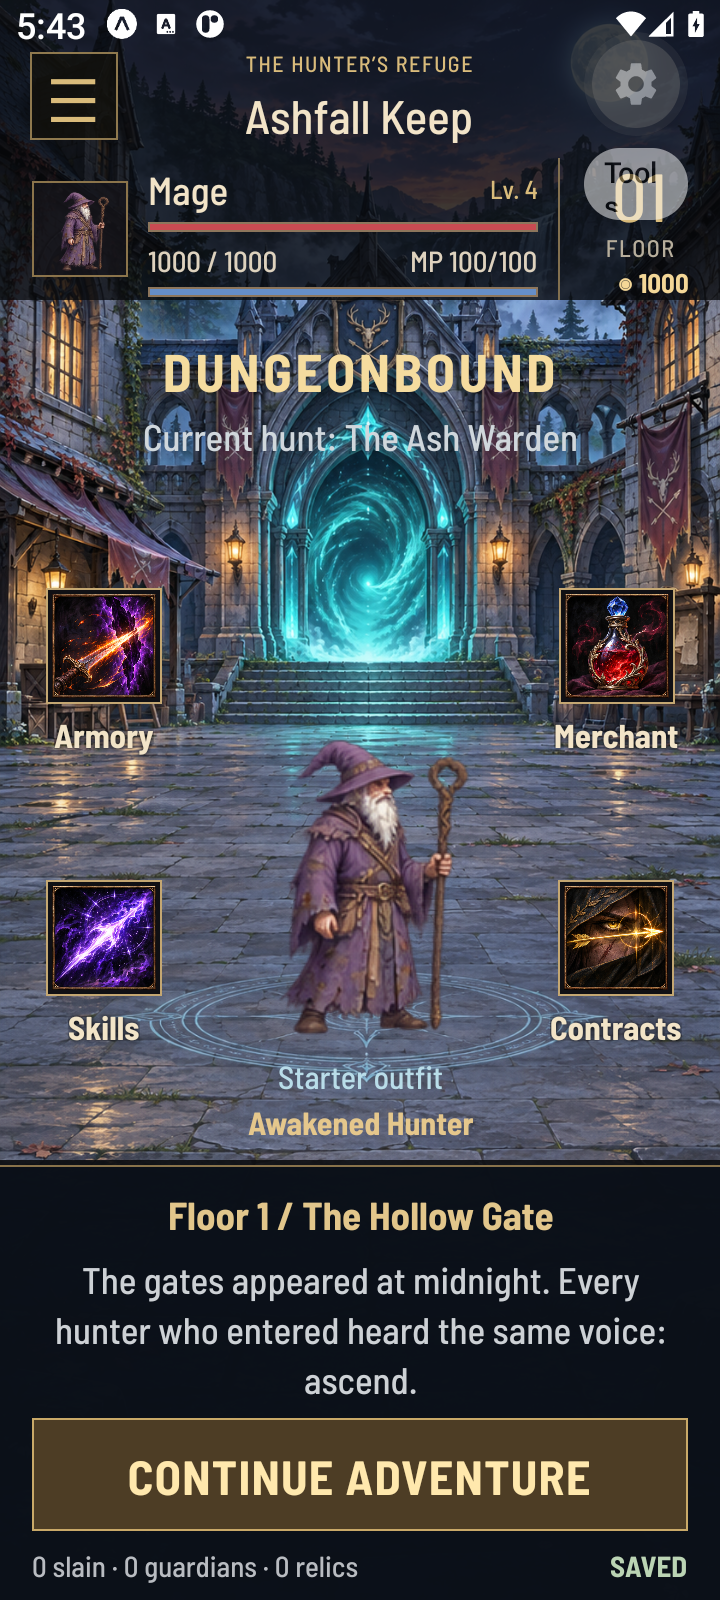
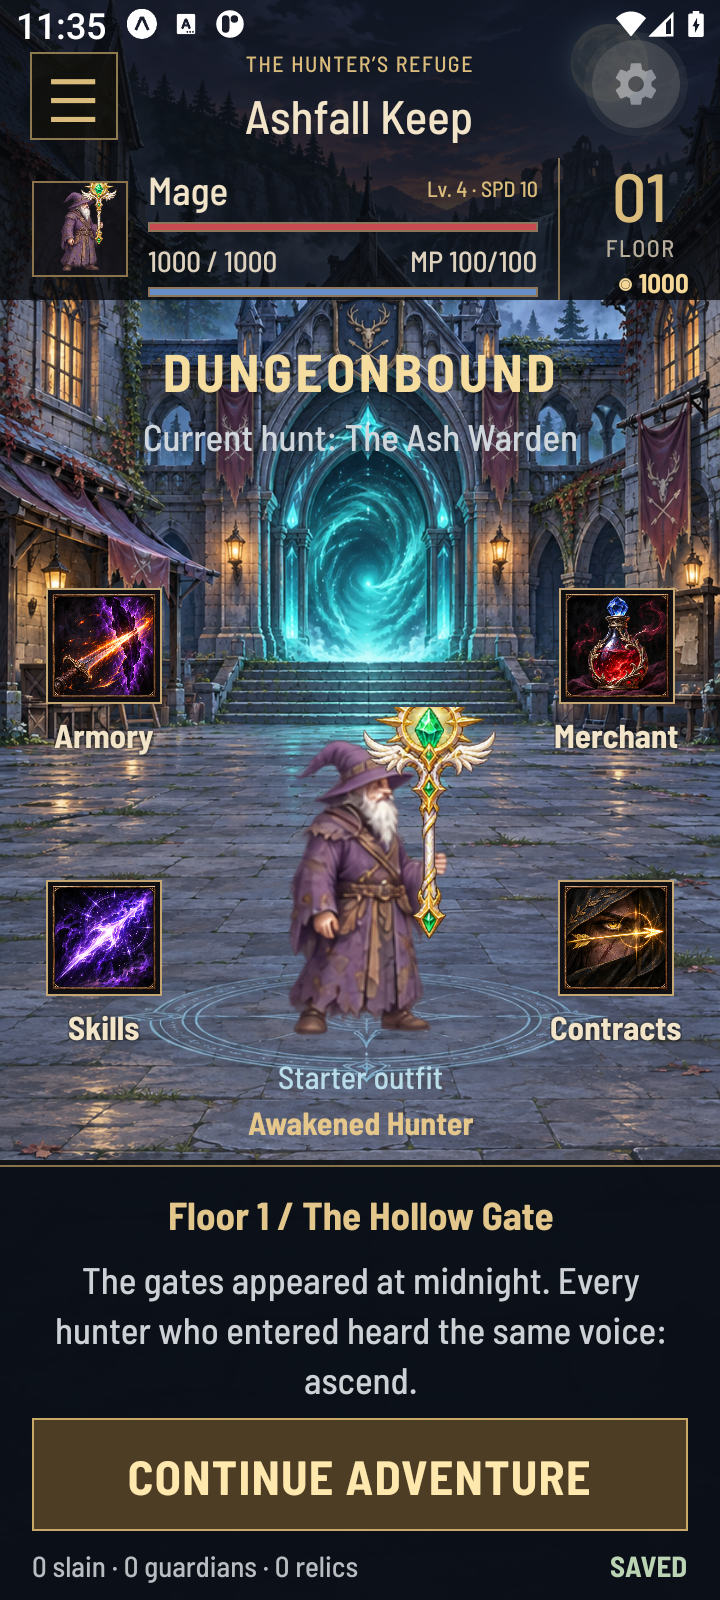
Finalize native verification and secure cloud deployment preparation

diff --git a/mobile/src/audio.tsx b/mobile/src/audio.tsx
@@ -20,6 +20,7 @@ export function useGameAudio(scene:keyof typeof tracks, ready:boolean) {
   const fx1 = useAudioPlayer(null,{updateInterval:1000});
   const fx2 = useAudioPlayer(null,{updateInterval:1000});
   const nextFx = useRef(0);
+  const voiceStarted = useRef(false);
   useEffect(()=>{
     let mounted=true;
     void AsyncStorage.getItem(storageKey).then(raw=>{
@@ -28,23 +29,23 @@ export function useGameAudio(scene:keyof typeof tracks, ready:boolean) {
     }).catch(()=>{}).finally(()=>{if(mounted)setLoaded(true);});
     void setAudioModeAsync({playsInSilentMode:false,interruptionMode:"mixWithOthers",allowsRecording:false,shouldPlayInBackground:false}).catch(()=>{});
     const listener=AppState.addEventListener("change",state=>setActive(state==='active'));
-    return()=>{mounted=false;listener.remove();void Speech.stop();};
+    return()=>{mounted=false;listener.remove();if(voiceStarted.current)void Speech.stop();};
   },[]);
   useEffect(()=>{if(loaded)void AsyncStorage.setItem(storageKey,JSON.stringify(settings)).catch(()=>{});},[settings,loaded]);
   useEffect(()=>{
-    try{music.replace(tracks[scene]);music.loop=true;music.volume=.22;}catch{}
-  },[scene,music]);
+    try{music.replace(ready&&loaded&&settings.music?tracks[scene]:null);music.loop=true;music.volume=.22;}catch{}
+  },[scene,music,ready,loaded,settings.music]);
   useEffect(()=>{
     try{if(ready&&loaded&&active&&settings.music)music.play();else music.pause();}catch{}
     if(!active||!settings.sound){try{fx1.pause();fx2.pause();}catch{}}
-    if(!active||!settings.voice)void Speech.stop();
+    if((!active||!settings.voice)&&voiceStarted.current){void Speech.stop();voiceStarted.current=false;}
   },[ready,loaded,active,settings,music,fx1,fx2,scene]);
   const play=useCallback((cue:SoundCue)=>{
     if(!ready||!active||!loaded||!settings.sound||AppState.currentState!=='active')return;
     try{const player=nextFx.current++%2?fx1:fx2;player.replace(cues[cue]);player.volume=cue==='ui'?.3:.55;player.play();}catch{}
   },[ready,active,loaded,settings.sound,fx1,fx2]);
   const say=useCallback((text:string)=>{
-    if(ready&&active&&settings.voice&&AppState.currentState==='active'){void Speech.stop();Speech.speak(text,{language:'en',rate:.92,onError:()=>{}});}
+    if(ready&&active&&settings.voice&&AppState.currentState==='active'){if(voiceStarted.current)void Speech.stop();voiceStarted.current=true;Speech.speak(text,{language:'en',rate:.92,onError:()=>{}});}
   },[ready,active,settings.voice]);
   function configure(key:keyof AudioSettings,value:boolean){setSettings(previous=>({...previous,[key]:value}));}
   return {play,say,settings,configure};

diff --git a/server/tests/db-config.test.js b/server/tests/db-config.test.js
@@ -1,5 +1,6 @@
 import test from 'node:test';
 import assert from 'node:assert/strict';
+import pg from 'pg';
 import {databaseConfig} from '../src/db-config.js';
 test('local development preserves the existing public schema without requiring TLS',()=>{
  const {schema,config}=databaseConfig({DATABASE_URL:'postgresql://local:example@127.0.0.1:5433/db'});
@@ -11,6 +12,15 @@ test('hosted database connections enforce TLS verification and a private schema'
  assert.equal(config.ssl.rejectUnauthorized,true);assert.equal(config.ssl.ca,'certificate\nsecond-line');
  assert.equal(new URL(config.connectionString).searchParams.has('sslmode'),false);
  assert.equal(new URL(config.connectionString).searchParams.has('options'),false);
+});
+test('driver parsing cannot override verified TLS or the private search path through URL parameters',()=>{
+ for(const overrides of ['ssl=0','ssl=no-verify','ssl=true&sslnegotiation=direct','sslmode=disable&uselibpqcompat=true','sslrootcert=nonexistent.pem&options=unsafe']){
+  const {config}=databaseConfig({NODE_ENV:'production',DATABASE_URL:'postgresql://example:example@db.example.test/postgres?'+overrides,DATABASE_CA_CERT:'project-ca'});
+  const resolved=new pg.Client(config).connectionParameters;
+  assert.equal(resolved.ssl.rejectUnauthorized,true,overrides);
+  assert.equal(resolved.ssl.ca,'project-ca',overrides);
+  assert.equal(resolved.options,'-c search_path=dungeonbound',overrides);
+ }
 });
 test('schema configuration rejects SQL injection and unsupported database protocols',()=>{
  for(const DATABASE_SCHEMA of ['public;DROP TABLE users','BadCase','a b','"public"'])

diff --git a/mobile/src/HeroSprite.tsx b/mobile/src/HeroSprite.tsx
@@ -38,7 +38,9 @@ export default function HeroSprite({game,className=game?.hero.className??"Warrio
   const [x,y]=(special?legendaryGrips:grips)[className][index];
   const gx=(size-w)/2+x*w,gy=size-h+y*h;
   const weaponSize=size*(className==="Warrior"?.46:className==="Ranger"?.65:pose==="pierce"?.5:.73);
-  const anchorY=className==="Warrior"?.83:className==="Ranger"?.5:.67;
+  // Atlas silhouettes have different horizontal grips inside their grid cells.
+  const anchorX=(className==="Ranger"?[.54,.48,.35,.30]:[.62,.55,.46,.37])[weapon.column];
+  const anchorY=className==="Warrior"?.78:className==="Ranger"?.5:.67;
   const angles=className==="Warrior"?[145,100,-35,95,180,40,145,140]:className==="Ranger"?[0,0,-25,0,60,-15,0,30]:[0,75,0,35,0,65,0,-25];
   const angle=angles[index];
   const rotation=swing&&pose!=="idle"&&pose!=="hit"?swing.interpolate({inputRange:[0,.18,.4,.75,1],outputRange:[(angle-25)+"deg",angle+"deg",(angle+12)+"deg",angle+"deg",angle+"deg"]}):angle+"deg";
@@ -51,7 +53,7 @@ export default function HeroSprite({game,className=game?.hero.className??"Warrio
     </View>
     {showWeapon&&<View pointerEvents="none" style={{position:"absolute",left:gx,top:gy,width:0,height:0}}>
       <Animated.View style={{width:0,height:0,transform:[{rotate:rotation}]}}>
-        <View style={{position:"absolute",left:-weaponSize*.5,top:-weaponSize*anchorY}}>
+        <View style={{position:"absolute",left:-weaponSize*anchorX,top:-weaponSize*anchorY}}>
           <WeaponSprite row={weapon.row} column={weapon.column} size={weaponSize} />
         </View>
       </Animated.View>

diff --git a/server/src/db-config.js b/server/src/db-config.js
@@ -9,7 +9,9 @@ export function databaseConfig(env) {
   const local = ['localhost','127.0.0.1','[::1]'].includes(url.hostname);
   const ssl = env.NODE_ENV === 'production' || !local;
   // URL SSL/options parameters must not replace verified TLS or our search path.
-  for (const key of ['sslmode','sslcert','sslkey','sslrootcert','options']) url.searchParams.delete(key);
+  for (const key of [...url.searchParams.keys()]) {
+    if (key.startsWith('ssl') || key === 'uselibpqcompat' || key === 'options') url.searchParams.delete(key);
+  }
   return {
     schema,
     config: { connectionString:url.toString(), max:8, idleTimeoutMillis:15000, connectionTimeoutMillis:10000,

diff --git a/scripts/update-word-report.py b/scripts/update-word-report.py
@@ -42,11 +42,11 @@ updates = {
     29: 'Frontend / React Native - responsibility confirmed by project owner.',
     35: 'Game systems / QA - responsibility confirmed by project owner.',
     40: 'Statuses below reflect source review and recorded tests. Implemented is distinct from physical-device or release verification.',
-    46: 'Implemented: three classes, distinct stats/skills, Ranger speed-based evasion and separate action/armor appearances.',
+    46: 'Implemented: three classes, Ranger speed-based evasion, pose-specific equipment layers, distinct Legendary outfits and multi-stage combat animation.',
     49: 'Implemented: six floors, eight seeded rooms per floor, valid linear start-to-boss sequence and varied room types.',
     52: 'Implemented: attack, guard, skills, flasks/ether, criticals, damage/status effects and victory/loss.',
     55: 'Implemented: ten regular enemy archetypes, elite and six named guardians; strike/heavy/guard/hex rules and boss enrage. Many share a rotation.',
-    58: 'Implemented: weapon, armor and accessory slots, stat bonuses, selling and Common/Rare/Epic/Legendary equipment. Twenty designed item types excluding relics/tomes.',
+    58: 'Implemented: weapon, armor and accessory slots, visible equipped weapons/armor, selling and Common/Rare/Epic/Legendary equipment. Twenty designed item types excluding relics/tomes.',
     61: 'Implemented: seeded XP/gold/item rewards and probability-based four-rarity loot. Catalog/stat and seeded frequency tests pass.',
     64: 'Implemented: leveling, fifteen class skills with prerequisite branches, and mutually exclusive Assault/Survival mastery with paid switching.',
     67: 'Implemented: twelve one-time contracts and twelve achievement triggers, including the proposal examples.',
@@ -60,7 +60,7 @@ updates = {
     103: 'Earlier session/offline/conflict persistence checks passed. Latest native result: ' + native,
     107: 'Passed: thirty live API checks on the updated home-network API, including v3 gear/mastery round trip, authorization, refresh/logout and rejected schema downgrade.',
     111: native,
-    115: 'Passed: migration, malformed saves, prerequisites, equipped-item sales, mastery charging, save conflicts and exact combat regressions. Current mobile suite 46/46; backend 6/6; TypeScript passed.',
+    115: 'Passed: migration, malformed saves, prerequisites, equipped-item sales, mastery charging, save conflicts and exact combat regressions. Current mobile suite 48/48; backend 10/10; TypeScript passed. Cloud Linux validation also passed.',
     121: 'OPPO home screen stretched; fonts/titles clipped.',
     122: 'Absolute composition, landscape art crop and generic device font substitution.',
     123: 'Measured portrait layout, dedicated background, bundled Barlow fonts and responsive control widths.',
@@ -78,14 +78,14 @@ updates = {
     192: 'Measure standalone launch time, memory, frame stalls, heat and battery on representative phones.',
     195: 'Leaderboard and explicit cloud conflict handling are implemented. Competitive anti-cheat and multiplayer remain outside the initial MVP.',
     200: repo,
-    202: f'Last committed checkpoint: {head or "not established"}. Latest implementation changes remain local/uncommitted; no current release commit is claimed.',
-    204: 'No completed release APK/download link recorded by this report. See the dated local build log for actual build status; Expo Go is not a standalone APK.',
+    202: f'Report generated from source checkpoint {head or "not established"}; accompanying report/evidence updates are committed separately. Consult the repository main branch for the latest source. No Android release commit or APK is claimed.',
+    204: 'Cloud Android build workflow is prepared; actual hosted HTTPS API access is required before a release build. No completed release APK/download link recorded by this report. See the dated local build log for actual build status; Expo Go is not a standalone APK.',
     206: 'Not recorded; supply an actual demo link if required.',
     208: 'Local evidence/: proposal-v3-tests.txt, proposal-v3-wifi-api-tests.txt, phone-v3-*.png; .project-docs/ contains dated audits and verification reports.',
     214: 'Frontend responsibility: Syed Muhammad Rayyan (confirmed by project owner). Individual commit/time evidence and percentages are not inferred.',
     216: 'Backend responsibility: Syed Ahmer Ali (confirmed by project owner). Individual commit/time evidence and percentages are not inferred.',
     218: 'Game systems responsibility: Maaz Ali Murtaza (confirmed by project owner). Individual commit/time evidence and percentages are not inferred. Codex-assisted changes are attributed separately.',
-    220: 'The current implementation provides the proposal\'s main playable RPG loop and the previously missing tree, accessories, Legendary rarity and speed mechanic. Automated tests and local API evidence pass. Physical performance, final release APK/hosting and truthful team timeline/contribution evidence remain separate completion tasks.',
+    220: 'The current implementation provides the proposal\'s main playable RPG loop, prerequisite trees, accessories, Legendary rarity, speed, distinct equipment art, original music/effects and optional device voice announcements. Automated tests and local API evidence pass. Physical performance, final release APK/hosting and truthful team timeline/contribution evidence remain separate completion tasks.',
 }
 with ZipFile(source) as original:
     original_xml = original.read('word/document.xml').decode('utf-8')

diff --git a/.project-docs/PROPOSAL_IMPLEMENTATION_2026-11-07.md b/.project-docs/PROPOSAL_IMPLEMENTATION_2026-11-07.md
@@ -12,26 +12,30 @@ This follows PROPOSAL_AUDIT_2026-11-07.md and the supplied Word proposal/report.
 - Base speed: Warrior 12, Ranger 20, Mage 10; later level-ups add one, capped at 60. Accessories can add speed. Evasion is max(0, min(25%, (hero speed - enemy speed)/100)); fast bats/stalkers and guardians have higher comparison speeds. Evasion avoids an attack/hex, not guard or status ticks. Turn-based combat and one action per turn remain intact.
 - Added the proposal's First Dungeon, 100 Enemies Defeated, Level 10 and Legendary Hunter milestones while retaining previous achievements. Quest level-ups update achievements immediately.
 - Save format three, validated on both API and device. Complete v1/v2 saves migrate without clearing inventory, equipment, learned skills, gold or campaign progress. New slot/stat/mastery defaults are added. Current-version saves keep their revision; migrations receive a new revision through normal hydration. The API atomically prevents a lower-format client overwriting an upgraded save.
-- Gold Legendary styling and a static crest/ground seal distinguish it in the HUD/home/combat. Legendary currently reuses the Epic base sprite row; no new unique frame sheet is claimed.
+- Independent held-weapon atlas layers and unique Legendary outfits for all three classes now distinguish equipped weapons and armor. Timed anticipation, strike, Warrior follow-through, hit and recovery poses use existing native animation effects; reduced motion skips anticipation. Artwork prompts and retained source variants are documented in mobile/assets/ARTWORK-v4.md.
+- Original procedural refuge/battle/guardian music and nine effects, independent music/effect switches, optional device voice announcements (off by default), background pausing and no microphone/recording permissions. Muted music unloads its source; voice-off avoids initializing the native speech engine solely to stop it.
+- Supabase private-schema migrations with verified TLS and a Free Render API blueprint. Manual Linux workflows validate the backend and produce an internal Android preview after a real hosted HTTPS API origin is available. Private release assets retain successful APK builds; no APK exists yet.
 
 ## Executed automated checks
 
-- Mobile unit tests: 46 passed, zero failed, including all-class six-floor campaign simulations.
+- Mobile unit tests: 48 passed, zero failed, including all-class six-floor campaign simulations and independent weapon/armor selection.
 - Mobile TypeScript: passed after gameplay/schema/UI integration.
-- Backend unit tests: six passed, zero failed.
+- Backend unit tests: ten passed, zero failed, including the actual PostgreSQL driver resolving production TLS/search-path configuration without URL overrides.
 - Live API: 30 passing checks on the separate local test API, then 30 on the corrected home-network API. Includes actual Legendary accessory/mastery JSONB round trip and rejected schema downgrade retaining the equipped item.
 - New focused coverage includes exact combat damage/critical/piercing/guard outcomes, 30,000 seeded critical/evasion samples, 12,000 actual treasure generations with rarity-frequency checks and every equipment template reached, legacy migration, prerequisites, mastery costs and accessory stacking/sales.
 
 Evidence: evidence/proposal-v3-tests.txt, proposal-v3-api-tests.txt and proposal-v3-wifi-api-tests.txt. These are distinct test assertions and simulations, not physical-device performance measurements.
 
+Fresh Linux validation passed for b5b184e: https://github.com/MaazAliMurtaza/dungeonbound/actions/runs/42399693620. This independently ran the 48/9 unit suites, TypeScript, offline Expo compatibility, private-schema migration on PostgreSQL 17 and authenticated live API integration. The older local test log retains its original 46/6 counts.
+
 ## Runtime troubleshooting and verification in progress
 
 The first live tests hit a stale port-4000 process and rejected the new format. Windows listener discovery and PowerShell process stopping did not replace that old listener. Replacing only the separately verified PID succeeded; /health now advertises saveVersion 3. API startup now reports bind failures rather than printing a misleading success on an Express listen callback error. The exact one-off restart is recorded in evidence/api-restart-verified.json.
 
-Native walkthrough attempts encountered Expo Go download failure/stalls. Android logcat reported a ProtocolException while processing a multipart bundle response. The matching upstream report is https://github.com/expo/expo/issues/49111; its JavaScript-response workaround informed mobile/metro.config.cjs. It changes Windows dev bundle responses while preserving normal asset/manifest/HMR middleware. Treat the middleware as pending native verification until the final result below is updated. One harness attempt also failed when the emulator returned no accessibility root during an activity restart; that attempt did not establish a game-rule failure.
+Native walkthrough attempts encountered Expo Go download failure/stalls. Android logcat reported a ProtocolException while processing a multipart bundle response. The matching upstream report is https://github.com/expo/expo/issues/49111; its JavaScript-response workaround informed mobile/metro.config.cjs. It changes Windows dev bundle responses while preserving normal asset/manifest/HMR middleware. The corrected home-network server now boots the native app. Transient null accessibility roots required test retries; a later walkthrough raced the 700 ms cloud-save debounce and searched for Next Room while an enemy was active. The harness now waits for each cloud revision before its next action. These interrupted attempts do not establish a complete floor-clear pass.
 
-Offline ARM64/x86_64 debug APK attempt failed because io.github.expo:expo-modules-v2-gradle-plugin:0.2.7 was not cached. A normal Maven-dependency build retry is in progress; SDK auto-download and external publishing remain disabled. No completed APK is claimed here yet.
+Offline ARM64/x86_64 debug APK attempt failed because io.github.expo:expo-modules-v2-gradle-plugin:0.2.7 was not cached. Later Windows builds encountered path length, then disk exhaustion while merging native libraries. No completed APK resulted. The verified task-created TEMP/db3-v4px6aik staging directory was removed after its logs were preserved, recovering 1.22 GB. Project files and shared SDKs remain. The replacement build workflow uses a disposable Linux runner and requires a real hosted HTTPS API; it has not been dispatched with a placeholder.
 
 ## Remaining evidence and deliverables
 
-Finish native feature/floor/restart verification and inspect screenshots; confirm the bundle workaround on the actual home-network Metro server. Physical OPPO responsiveness, memory/frame stalls/heat and standalone APK install/update/backup tests remain outstanding. Hosted HTTPS API and the final release build are separate deployment tasks. The Word report still needs factual test/build fields and team-provided role/timeline/contribution corrections; no human contribution history will be invented.
+The final Android 11 native walkthrough passed: new v3 account, v2 save migration preserving equipment/level/gold, skill prerequisites, paid mastery switching, accessory and Legendary purchases/equip, visible Legendary outfit, session restart, eight-room guardian clear, First Dungeon achievement and logout. Evidence: evidence/proposal-v3-native-final.txt and proposal-v3-victory.png. The script restored emulator display/font settings and removed its disposable account. Physical OPPO responsiveness, memory/frame stalls/heat and standalone APK install/update/backup tests remain outstanding. Hosted HTTPS API and the final release build are blocked by absent Render/Supabase management commands in this running session despite confirmed installed plugins and explicit mentions. See CLOUD_DEPLOYMENT_HANDOFF.md. Confirmed report roles are Syed Muhammad Rayyan frontend, Syed Ahmer Ali backend, and Maaz Ali Murtaza game systems/QA; no human contribution percentages or dated timeline are invented.

diff --git a/.project-docs/CLOUD_DEPLOYMENT_HANDOFF.md b/.project-docs/CLOUD_DEPLOYMENT_HANDOFF.md
@@ -1,0 +1,37 @@
+# Deployment continuation
+
+## Owner decisions
+
+- Keep all project files locally for now. Remove only task-generated temporary files; no checkout/dependency removal without a later instruction.
+- Private source repository: https://github.com/MaazAliMurtaza/dungeonbound
+- Supabase PostgreSQL, not Neon; Render Express API. Free resources only under the existing zero-spend limit.
+- Confirmed responsibilities: Syed Muhammad Rayyan frontend, Syed Ahmer Ali backend, Maaz Ali Murtaza game systems/QA. Do not infer individual contribution percentages or semester dates.
+
+## Connection state
+
+The owner connected both Render and Supabase and sent explicit plugin mentions. Plugin search confirms both installed. This running session still exposes no Render/Supabase management commands in its available tool registry (only GitHub/Sites and general tools). Do not ask the owner to reconnect again or claim provider resources were deployed. A fresh session may be needed to hydrate the provider toolset; verify actual available commands first.
+
+## Current work
+
+Source/report checkpoint fe2e518 and optional-art/audio/cloud-workflow checkpoint b5b184e were pushed. Cloud validation for b5b184e succeeded: https://github.com/MaazAliMurtaza/dungeonbound/actions/runs/42399693620 (48 mobile tests, 9 backend tests, TypeScript, migration and live API checks). Read the current remote head for subsequent small fixes/evidence commits.
+
+The optional polish adds separate held-weapon layers, unique Legendary class outfits, timed anticipation/strike/follow-through/hit/recovery poses, original procedural music/effects and optional synthesized voice announcements. Asset prompts and modes: mobile/assets/ARTWORK-v4.md. No human voice cast is claimed.
+
+The final native proposal walkthrough passed on Android 11: v2-to-v3 cloud migration, skills/mastery, accessory/Legendary shopping and equip, restart, eight-room guardian clear, achievement and logout. The fixture account was removed and emulator display settings restored. See evidence/proposal-v3-native-final.txt and DEPLOYMENT_VERIFICATION_2026-11-07.md. The verified Word report includes this pass and the confirmed team roles; physical phone performance and a standalone APK remain unverified.
+
+## Next provider actions
+
+1. Use actual connected Render/Supabase account tools to inspect projects and select/create only the dedicated Dungeonbound resources. Never create paid projects, add-ons or instances.
+2. Create or select Supabase PostgreSQL. Use a private dungeonbound schema; server/db/migrate.js creates it and revokes PUBLIC schema access. Do not expose password hashes or refresh-session hashes through the public Data API.
+3. Use its IPv4 session pooler with verified TLS. server/src/db-config.js supports DATABASE_SCHEMA and optional DATABASE_CA_CERT; it strips URL TLS overrides and never disables certificate verification. Store credentials only as Render host secrets, not Git, app bundles or chat messages.
+4. Deploy deploy/render.yaml. Generated JWT_SECRET and DATABASE_URL are private. Confirm actual public HTTPS /health advertises saveVersion 3 and run the authenticated integration suite against that URL.
+5. Preserve the owner's existing local adventure/account before switching APIs. If moving data, migrate directly over secure database connections; never commit database dumps, password hashes, refresh sessions or credentials. Remove disposable example.test fixtures instead of migrating them. Prefer new sessions after migration.
+6. Trigger .github/workflows/android.yml with the verified HTTPS API origin. It builds on a disposable Linux runner, validates the URL, packages ARM64/x86_64 standalone internal-preview APK, records SHA-256, and retains it in private GitHub release assets plus a seven-day Actions artifact. No Windows native build or duplicated local staging is needed.
+7. Download one verified APK only for installation testing, check checksum, install on emulator/physical device when available, test auth/SecureStore, restart, offline saves and upgrade behavior, then delete that temporary download after recording results.
+8. Update the verified Word report using scripts/update-word-report.py only with actual final native/build results. Original supplied Word documents are archived in docs/source and must remain unchanged.
+
+## Local preview
+
+API: http://192.168.1.7:4000/health. Expo: exp://192.168.1.7:8082. Existing private-Wi-Fi firewall rule remains scoped to Node, Wi-Fi, LocalSubnet and ports 4000/8082. Local PostgreSQL secrets remain in ignored .env files. Never print their values.
+
+Known obsolete temporary Android staging directory TEMP/db3-v4px6aik was removed after verification logs were backed up; 1.22 GB recovered. Shared Android SDKs, user directories and project files were preserved.

diff --git a/.project-docs/DEPLOYMENT_VERIFICATION_2026-11-07.md b/.project-docs/DEPLOYMENT_VERIFICATION_2026-11-07.md
@@ -1,0 +1,30 @@
+# Deployment checkpoint verification
+
+## Passed checks
+
+- GitHub Linux CI for source b5b184e: https://github.com/MaazAliMurtaza/dungeonbound/actions/runs/42399693620. Mobile 48/48, backend 9/9, TypeScript, offline Expo compatibility, fresh PostgreSQL 17 private-schema migration and authenticated API integration passed.
+- Final local backend suite: 10/10 passed after stripping URL ssl/sslnegotiation/libpq overrides; the new regression inspects the actual pg.Client resolved TLS/search-path configuration. The earlier cloud baseline had nine backend tests.
+- Local TypeScript passed again after the final audio loading/speech optimization and per-column weapon grip correction.
+- Android build/checks workflows and Render blueprint parsed successfully with the installed js-yaml parser. The first parser lookup used an unavailable yaml package; js-yaml was already installed, so no package was installed for this check.
+- Home-network API /health returned status ok and saveVersion 3 at 192.168.1.7:4000. The native app boots from the actual Windows Metro server on port 8082 after the multipart-response workaround.
+- Android's native audio service showed media players starting/stopping for the Expo process. This establishes native playback activity, not subjective audio quality or measured device performance.
+
+## Native evidence
+
+The final native walkthrough passed: new account, v2-to-v3 migration preserving gear/level/gold, prerequisite learning, paid mastery switching, accessory/Legendary purchase and equip, visible Legendary outfit, restart persistence, full eight-room guardian clear, First Dungeon achievement and logout. Results are recorded in evidence/proposal-v3-native-final.txt. A walkthrough fixture has high HP/gold solely to exercise controls and persistence; it is not evidence of balanced normal progression. Automation targets emulator-5554 only and deletes its disposable example.test account in finally; it does not reset the owner's phone or account.
+
+The final artwork/layout run passed for Warrior, Ranger and Mage starter/Legendary bodies with separate Dawnsunder equipment layers, compact and tall viewports at enlarged text, and logout. Screenshots were inspected; per-column weapon grip offsets were corrected and the entire focused run repeated successfully. Results: evidence/equipment-polish-native.txt. Its script supports a focused VISUAL_POLISH=1 mode for new starter/Legendary bodies with independent Dawnsunder weapon layers; its full mode retains the Common/Rare/Epic and combat captures. Both now use save format three.
+
+Interrupted attempts included transient missing accessibility roots and a test race with asynchronous cloud saves. The dungeon harness now waits for a newer saved revision after every action. evidence/proposal-v3-failure.png retains the failed attempt, rather than presenting it as a full native pass.
+
+## Build and hosting status
+
+No hosted Render/Supabase resource or completed standalone APK is claimed. Both provider plugins are installed and the owner explicitly mentioned them, but this session exposes no provider management commands. CLOUD_DEPLOYMENT_HANDOFF.md records the exact remaining deployment steps. The Android workflow requires a genuine public HTTPS API URL and retains a successful preview in the private repository's release assets. It has not been run against a fabricated or local origin.
+
+Earlier Windows builds failed on unavailable offline dependencies, Windows path length and finally disk exhaustion. Their logs remain archived. The task-created TEMP/db3-v4px6aik directory was verified and removed, recovering 1.22 GB. Project files, original documents, dependency trees and shared SDKs remain in place under the owner's latest storage instruction.
+
+Physical OPPO frame stalls, memory, heat, battery and standalone install/update/offline/backup behavior remain unverified. Expo Go and an Android 11 emulator do not establish those results. Internal preview signing is not a Play Store release signing setup.
+
+## Report and roles
+
+The verified Word copy is generated by scripts/update-word-report.py from the unchanged archived original. Roles follow the owner's instruction: Syed Muhammad Rayyan frontend, Syed Ahmer Ali backend, Maaz Ali Murtaza game systems/QA. No contribution percentages or dated individual commit history are invented. Only use --native-passed after the entire corresponding native walkthrough succeeds.

diff --git a/deploy/SUPABASE_RENDER.md b/deploy/SUPABASE_RENDER.md
@@ -6,8 +6,10 @@ Selected by the project owner. Supabase hosts PostgreSQL; Render hosts the exist
 2. Use a Free Supabase project and Free Render web service. Do not select a paid plan or add-ons without separate approval.
 3. For an IPv4-only API host, use Supabase's session-pooler PostgreSQL connection from the project's Connect panel. Keep its password in Render's DATABASE_URL secret, never the app bundle or repository.
 4. Keep database TLS certificate verification enabled. Supply the project's CA certificate as a host secret if required; never work around a connection error by disabling TLS verification.
-5. Apply server/db/schema.sql. Account, session, player-save and leaderboard tables belong to the backend; mobile clients talk only to the authenticated Express API.
+5. Set DATABASE_SCHEMA=dungeonbound and run npm run db:migrate from server (the Render start command does this). The migration creates the private schema and revokes PUBLIC schema access before applying its tables. Do not paste schema.sql into the default public schema. Account, session, player-save and leaderboard tables belong to the backend; mobile clients talk only to the authenticated Express API.
 6. Deploy deploy/render.yaml with DATABASE_URL as a host secret and generated JWT_SECRET. Validate public HTTPS /health, authentication, per-user save access and refresh/logout before building the release APK.
 7. Set the actual HTTPS origin as EXPO_PUBLIC_API_URL in the cloud build environment. No placeholder/local release origin is accepted.
 
 References: [Supabase connection options](https://supabase.com/docs/guides/database/connecting-to-postgres), [Supabase plans](https://supabase.com/pricing), [Render Free services](https://render.com/docs/free). Free-plan inactivity/usage limits affect availability and must be documented in the final handoff.
+
+Render Free services sleep after 15 idle minutes and can take about a minute to wake. Its monthly included bandwidth/build allowances can incur supplemental charges when a payment method permits them. Before creating resources, inspect account billing/spend controls and retain a zero-spend configuration; a Free instance label alone does not establish a zero-cost account. Never add a payment method or enable paid overages for this project. Saves remain in PostgreSQL, not Render's ephemeral filesystem.

diff --git a/mobile/assets/ARTWORK-v4.md b/mobile/assets/ARTWORK-v4.md
@@ -4,7 +4,7 @@ Built-in imagegen mode was used for the following final raster assets. Existing 
 
 The Mage Legendary v1 is a retained source iteration whose alpha background failed inspection. Runtime uses v2, a fresh generation with transparent margins. No Python/image manipulation was used to remove raster backgrounds.
 
-HeroSprite anchors weapon layers at pose-specific grips and uses native transforms. Combat sequences include anticipation, strike, Warrior follow-through, hit reaction and recovery, with reduced-motion alternatives. This is a timed pose sequence, not a frame-by-frame walking-animation set.
+HeroSprite anchors weapon layers at pose-specific hand grips, compensates for each weapon column's uneven silhouette position, and uses native transforms. Combat sequences include anticipation, strike, Warrior follow-through, hit reaction and recovery, with reduced-motion alternatives. This is a timed pose sequence, not a frame-by-frame walking-animation set.
 
 ## Original audio
 

diff --git a/.project-docs/VERIFICATION_LOG.md b/.project-docs/VERIFICATION_LOG.md
@@ -158,3 +158,6 @@ See VERIFICATION_2026-11-07.md for the expansion, final checks, Android profile 
 
 
 2026-11-07 Word-document review: read both supplied proposal/report DOCX files; extracted body/table text, compared requirements with current code and existing test evidence, and saved PROPOSAL_AUDIT_2026-11-07.md. Original document hashes unchanged. This was a source/document audit, not a new gameplay or physical-device test run.
+
+
+2026-11-08 deployment continuation: see DEPLOYMENT_VERIFICATION_2026-11-07.md and CLOUD_DEPLOYMENT_HANDOFF.md. Native eight-room guardian walkthrough and final all-class equipment/compact-tall visual checks passed. Current mobile 48, backend 10; TypeScript passed. Word report roles verified; original unchanged. Hosted API/APK still pending actual provider access.
